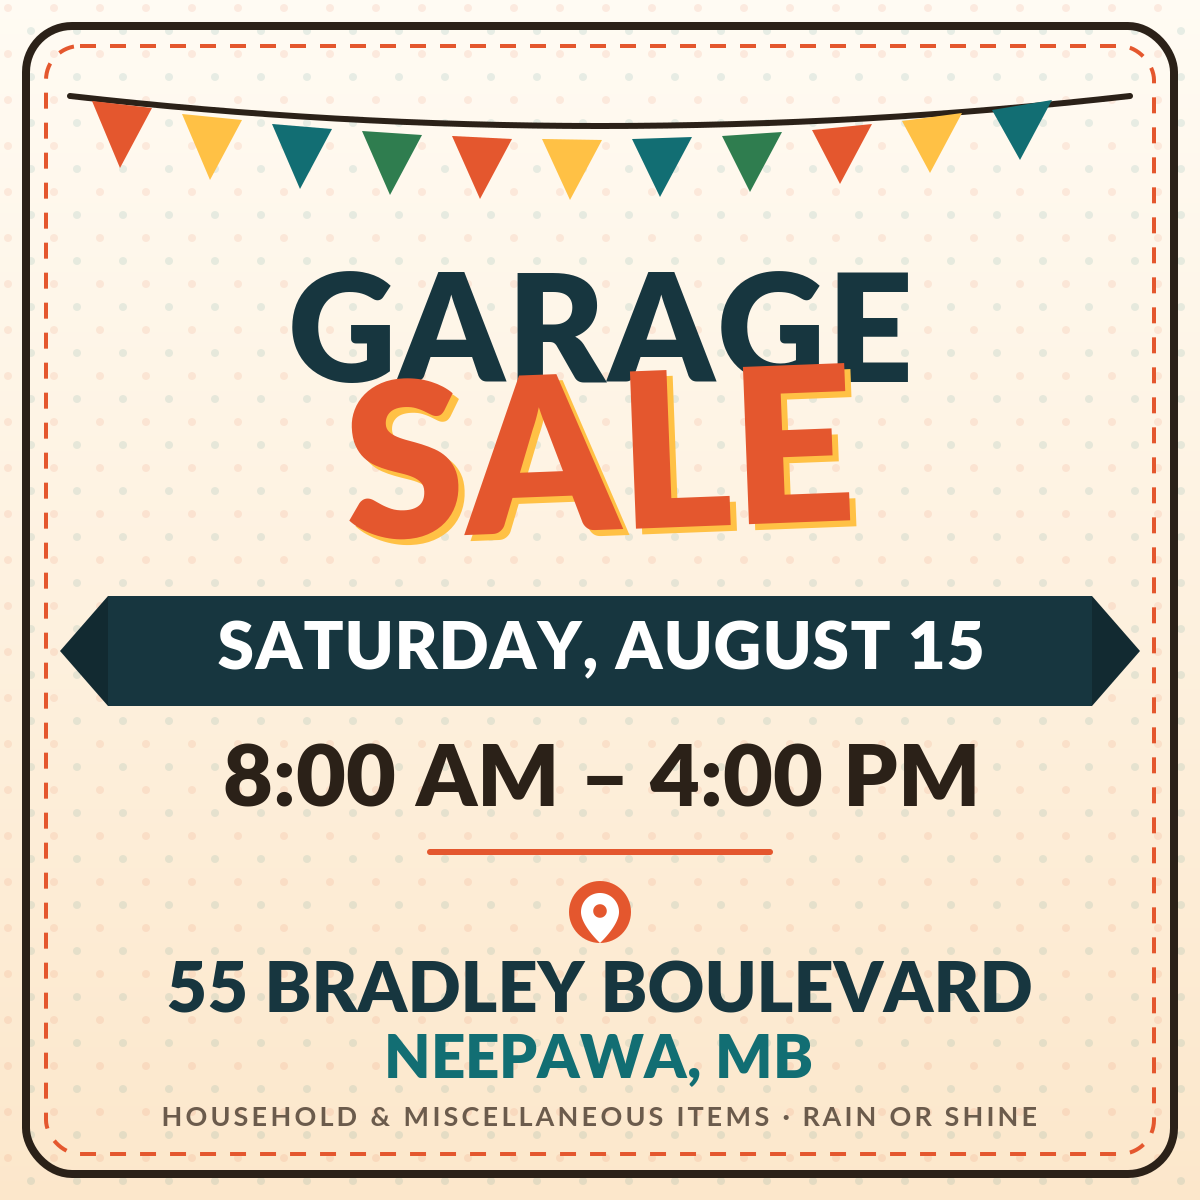
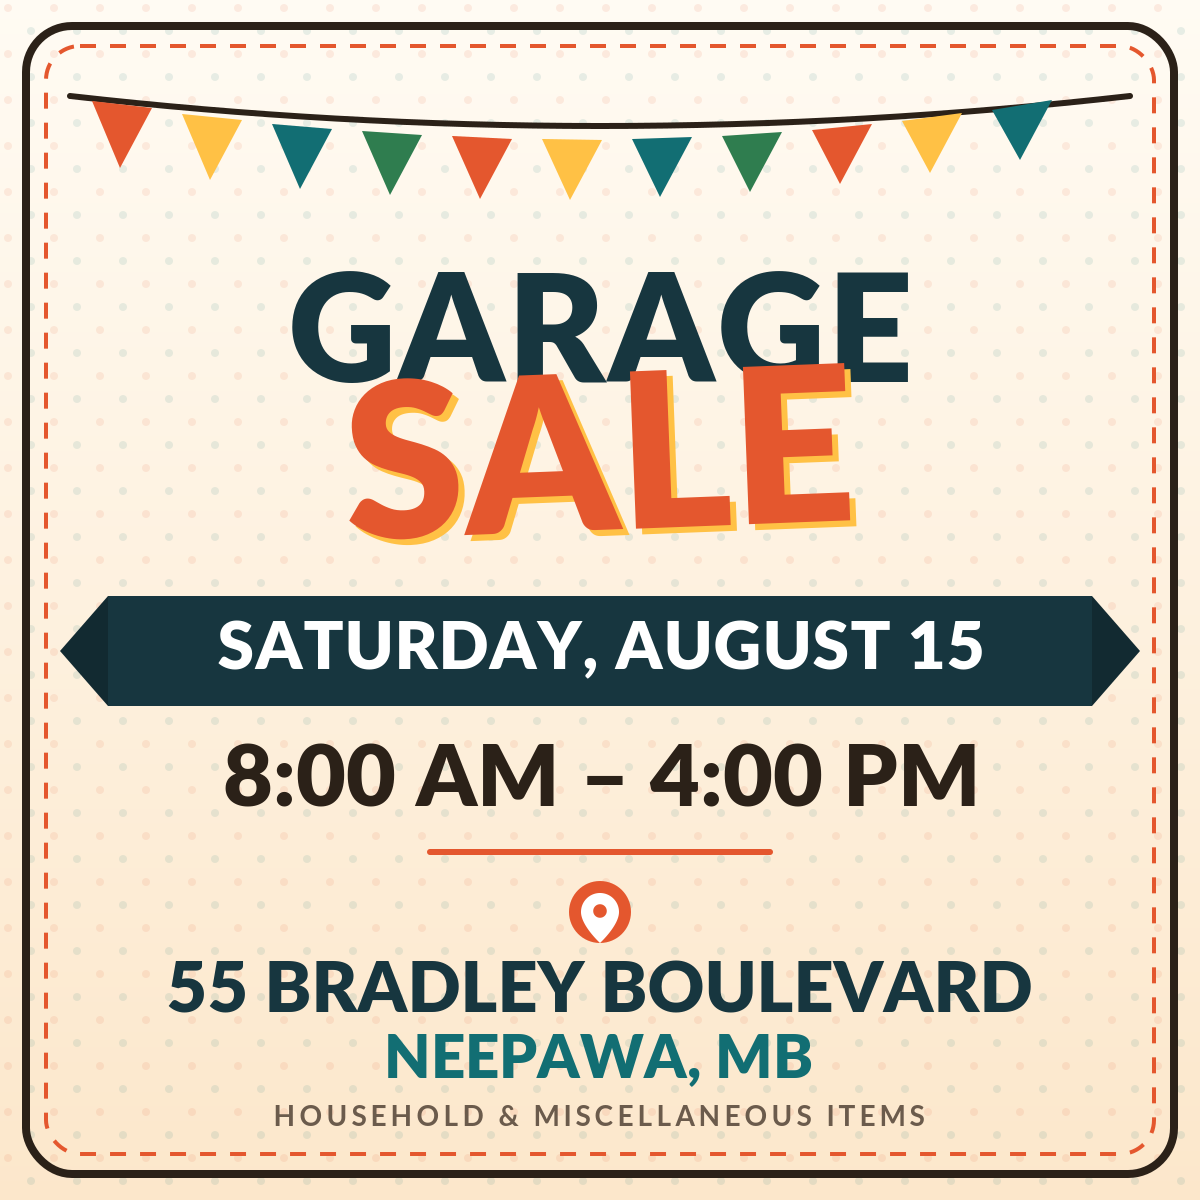
Drop the "rain or shine" claim
The sale may not go ahead in bad weather, so promising it either way
was misleading. The hero badge now states the date plainly, the
weather bullet is gone, and both graphics end on the item description.

Changed region(s): [[0.1233, 0.925, 0.8633, 0.9558]]

diff --git a/index.html b/index.html
@@ -113,7 +113,7 @@
     </div>
 
     <div class="hero__inner container">
-      <p class="hero__eyebrow"><span class="dot" aria-hidden="true"></span> One day only &middot; Rain or shine</p>
+      <p class="hero__eyebrow"><span class="dot" aria-hidden="true"></span> One day only &middot; Saturday, August 15</p>
 
       <h1 class="hero__title" id="hero-title">
         <span class="hero__title-line">GARAGE</span>
@@ -297,7 +297,6 @@
       <ul class="notes">
         <li><span class="notes__icon" aria-hidden="true">💵</span> <span><strong>Cash is easiest</strong> &mdash; please bring small bills if you can.</span></li>
         <li><span class="notes__icon" aria-hidden="true">🛍</span> <span><strong>Bring a bag or box</strong> for anything you take home.</span></li>
-        <li><span class="notes__icon" aria-hidden="true">🌦</span> <span><strong>Rain or shine</strong> &mdash; we&rsquo;ll be set up either way.</span></li>
         <li><span class="notes__icon" aria-hidden="true">🚗</span> <span><strong>Parking</strong> is available along the street.</span></li>
       </ul>
     </div>
